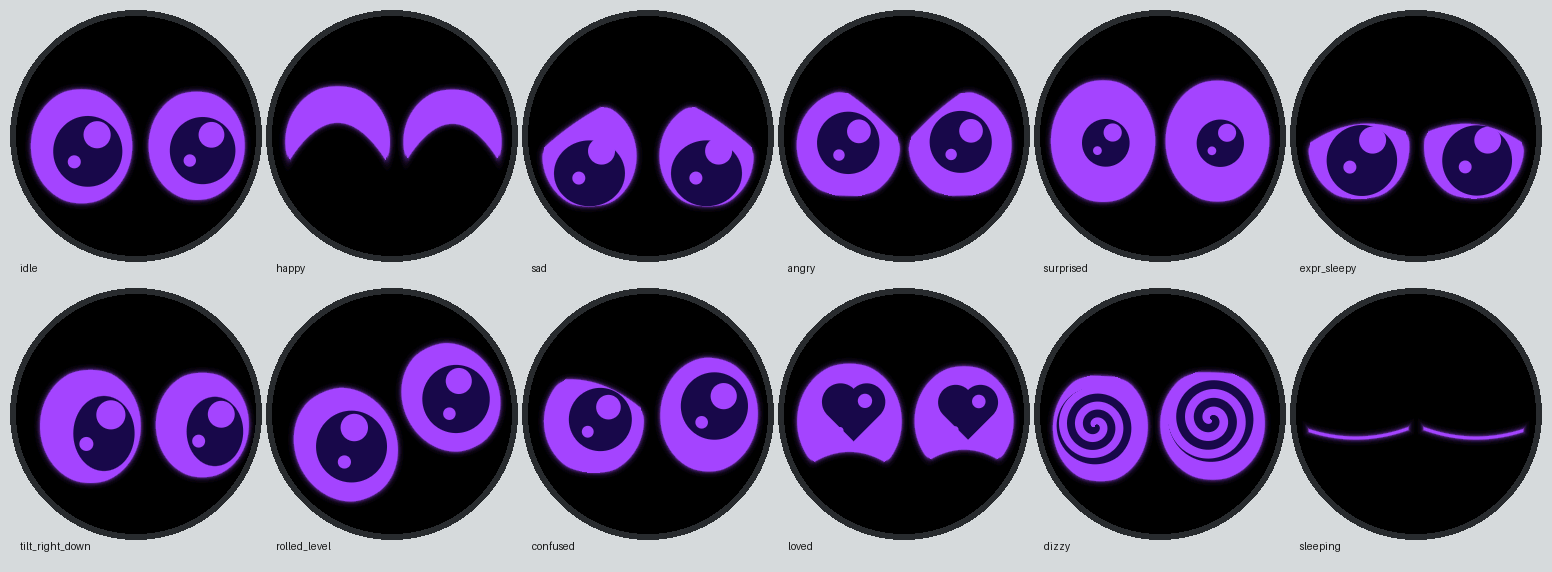
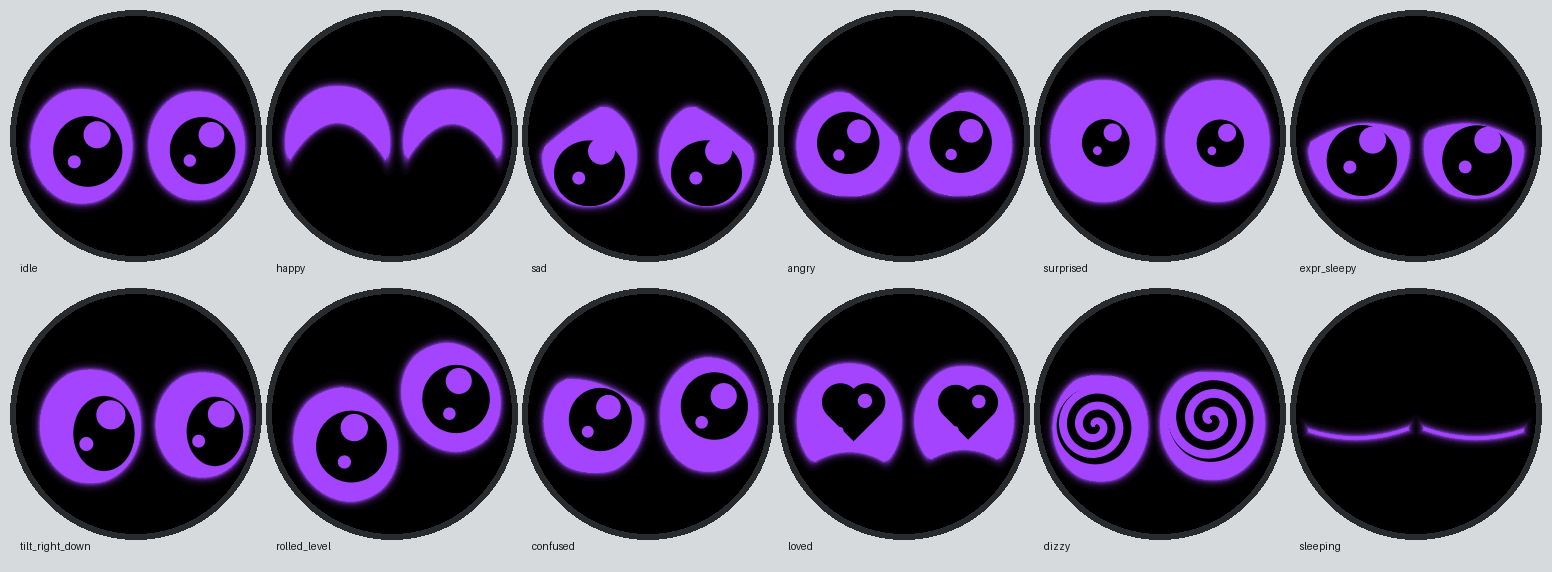
Purple and black only, brighter glow
Irises, hearts and spirals are black; the eyes, their glow and the
catch-lights are purple. Glow strength 0.55 -> 0.85, reach 4.5% -> 6.5%
of the screen. Palette checker handles a black second colour.

Claude-Session: https://claude.ai/code/session_01QkMyhmNvo3MfBaVS2YuhnD

diff --git a/StarFace/StarFace/FaceConfig.h b/StarFace/StarFace/FaceConfig.h
@@ -11,17 +11,17 @@
 // ============================================================================
 
 // ---- Colours ----------------------------------------------------------------
-// Exactly two colours on pure black: the eye ("back") is a glowing EYE_COLOR,
-// the iris ("front") is PUPIL_COLOR, and the catch-lights are EYE_COLOR
-// again. Edges are anti-aliased and the glow fades out (each such pixel is a
+// Just purple and black by default: the eye is a glowing EYE_COLOR, the iris
+// is PUPIL_COLOR (black, or any second colour you like), and the
+// catch-lights are EYE_COLOR again. Edges are anti-aliased and the glow fades out (each such pixel is a
 // blend of these two colours and black, nothing else), which is what makes
 // the shapes look like smooth glowing vector art instead of pixel steps.
 // 24-bit 0xRRGGBB values (shown as the nearest RGB565 colour on the panel).
 static constexpr uint32_t EYE_COLOR = 0xA246FF;     // the eyes, their glow and the catch-lights: glowing purple
-static constexpr uint32_t PUPIL_COLOR = 0x1C0A48;   // the big irises, hearts and spirals: deep midnight indigo
+static constexpr uint32_t PUPIL_COLOR = 0x000000;   // the big irises, hearts and spirals: black (purple and black only)
 static constexpr bool GLOW = true;                  // a soft halo of EYE_COLOR around the eyes
-static constexpr float GLOW_STRENGTH = 0.55f;       // halo brightness at the eye's edge
-static constexpr float GLOW_SIZE = 0.045f;          // halo reach, as a fraction of the screen
+static constexpr float GLOW_STRENGTH = 0.85f;       // halo brightness at the eye's edge
+static constexpr float GLOW_SIZE = 0.065f;          // halo reach, as a fraction of the screen
 static constexpr bool ANTI_ALIAS = true;            // smooth vector edges (false: hard pixel edges)
 // Rosy cheeks under the eyes: a small blush at rest that grows when it is
 // happy, petted or in love, and fades when it is sad or cross (the one extra

diff --git a/StarFace/tools/preview/palette.h b/StarFace/tools/preview/palette.h
@@ -42,6 +42,7 @@ inline bool inPalette(uint16_t v) {
     ee += E[i] * E[i]; pp += P[i] * P[i]; ep += E[i] * P[i]; ce += px[i] * E[i]; cp += px[i] * P[i];
   }
   float det = ee * pp - ep * ep;
+  if (det < 1e-3f * ee * (pp + 1)) return onRay(px, EYE_COLOR) || onRay(px, PUPIL_COLOR); // e.g. a black iris
   float a = (ce * pp - cp * ep) / det, b = (cp * ee - ce * ep) / det;
   // Outside the blend triangle: the closest point is on one of its edges.
   if (a < 0 || b < 0 || a + b > 1) return onRay(px, EYE_COLOR) || onRay(px, PUPIL_COLOR) || onEdge(px);

diff --git a/StarFace/README.md b/StarFace/README.md
@@ -1,6 +1,6 @@
 # Star Face
 
-A wearable eye pet for the **Waveshare ESP32-S3-Touch-LCD-1.28**, adapted from [CREATURE's Starboy](https://hesjustalittleguy.com/) behaviors to the sensors in this board. The round 240 × 240 screen shows two big, friendly cartoon eyes on pure black in **exactly two colours**: glowing purple ovals (with a soft purple halo) and large deep-indigo irises with two purple catch-lights, drawn as smooth anti-aliased vector shapes (no stepped pixel edges). They react to the world through the motion sensor: they look toward the ground when tilted, stay level when the star is turned, keep looking at you when it is swung, get dizzy when it is shaken hard or spun, and startle when it is tossed. The eyes themselves carry the expressions: lids slide, slant and curve, the ovals stretch and tilt, irises dilate and tighten, turn into hearts or spin into spirals. (Optional rosy cheeks, a third colour, can be switched on with `CHEEK_BLUSH`.) There is no mouth. The face is drawn procedurally on the device and needs no image files, Wi-Fi, or cloud service. [Front-view preview](face-preview.svg) ([PNG](face-preview.png)).
+A wearable eye pet for the **Waveshare ESP32-S3-Touch-LCD-1.28**, adapted from [CREATURE's Starboy](https://hesjustalittleguy.com/) behaviors to the sensors in this board. The round 240 × 240 screen shows two big, friendly cartoon eyes on pure black in **just purple and black**: brightly glowing purple ovals (with a purple halo) and large black irises with two purple catch-lights, drawn as smooth anti-aliased vector shapes (no stepped pixel edges). They react to the world through the motion sensor: they look toward the ground when tilted, stay level when the star is turned, keep looking at you when it is swung, get dizzy when it is shaken hard or spun, and startle when it is tossed. The eyes themselves carry the expressions: lids slide, slant and curve, the ovals stretch and tilt, irises dilate and tighten, turn into hearts or spin into spirals. (Optional rosy cheeks, a third colour, can be switched on with `CHEEK_BLUSH`.) There is no mouth. The face is drawn procedurally on the device and needs no image files, Wi-Fi, or cloud service. [Front-view preview](face-preview.svg) ([PNG](face-preview.png)).
 
 ![Expressions rendered by the device code](face-expressions.png)
 
